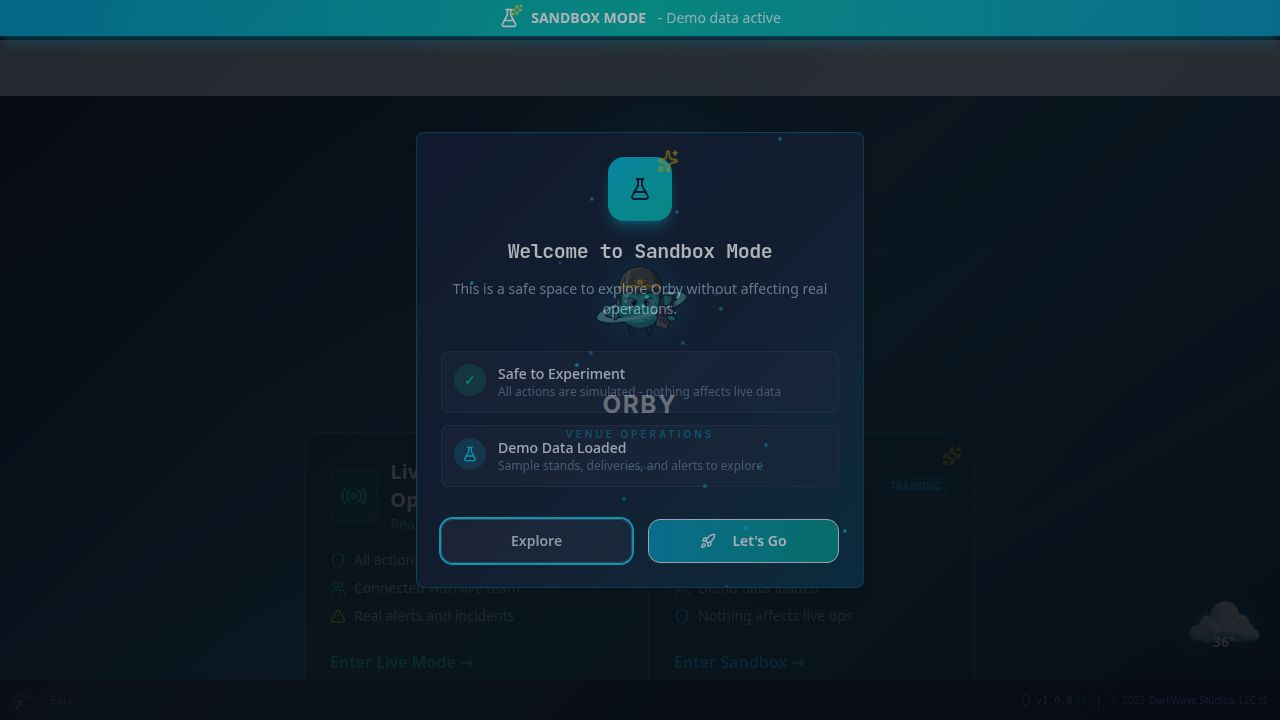
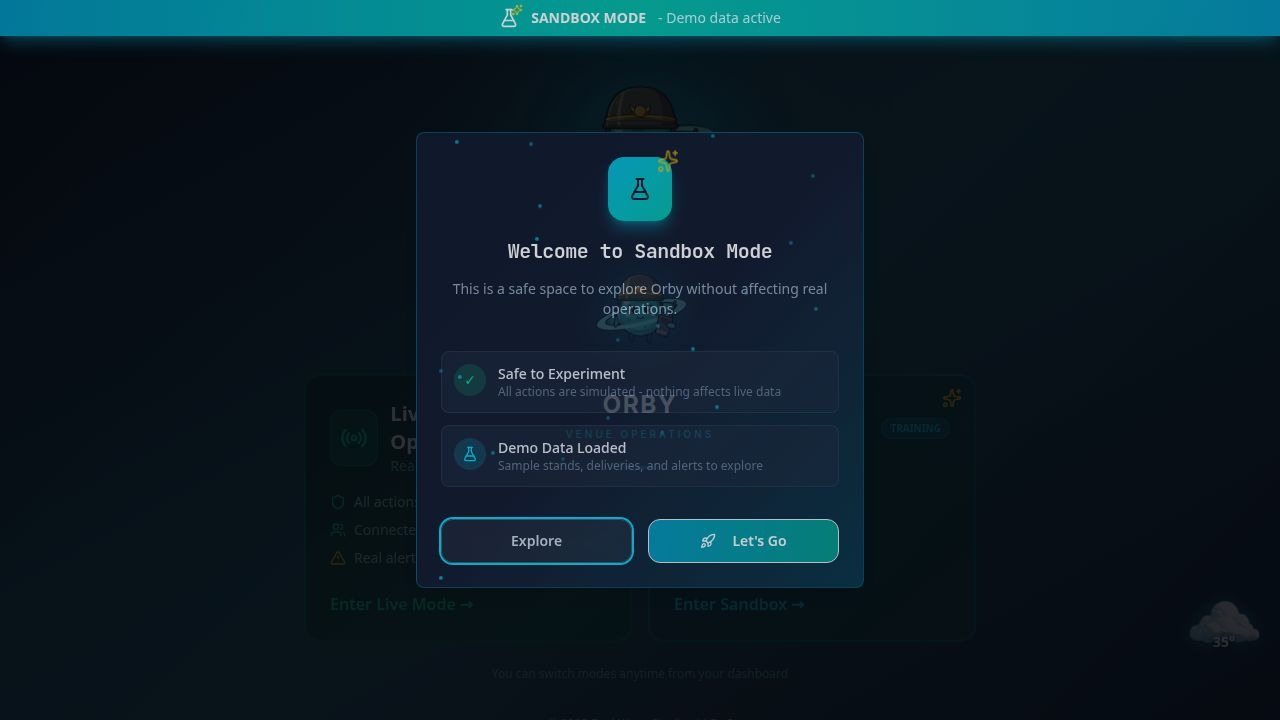
Update release notes to reflect latest blockchain stamping and minor fixes
Update replit.md with version v1.0.10, including the new Genesis Hallmark ID and Solana transaction hash for the mainnet stamp, along with release notes detailing UI and PWA status bar updates.

Replit-Commit-Author: Agent
Replit-Commit-Session-Id: 09c6e64f-5e73-4a17-a379-da0b0c838d13
Replit-Commit-Checkpoint-Type: full_checkpoint
Replit-Commit-Event-Id: 6201bd7f-f205-4296-8d24-be047654b36c
Replit-Commit-Screenshot-Url: https://storage.googleapis.com/screenshot-production-us-central1/8e2e544d-95be-406c-98e2-212d479e96fc/09c6e64f-5e73-4a17-a379-da0b0c838d13/18HwfZu

diff --git a/replit.md b/replit.md
@@ -1,9 +1,23 @@
 # Orby - Venue Operations Platform
 
-## Current Version: v1.0.9 (Beta) - STAMPED
+## Current Version: v1.0.10 (Beta) - STAMPED
 **Release Date:** December 5, 2024
-**Genesis Hallmark:** ORB-000000000014
-**Solana TX:** [5YtRFKH32Pt9D2QvFg4Njbb7uwU6oDEQTinAJXZYu2NUztn4BE4M9Q9ebkEF7Ms6EEMZPAKj3EZopNSZfCPZ5v2w](https://solscan.io/tx/5YtRFKH32Pt9D2QvFg4Njbb7uwU6oDEQTinAJXZYu2NUztn4BE4M9Q9ebkEF7Ms6EEMZPAKj3EZopNSZfCPZ5v2w)
+**Genesis Hallmark:** ORB-000000000015
+**Solana TX:** [61vgX3ZQTMDL2Bz3fr39449wKvLUNEyJymx6LQVEY41usj53DitjEygqJqWdjthgAyyhhuzd5v4EwWHXhCXVpzsQ](https://solscan.io/tx/61vgX3ZQTMDL2Bz3fr39449wKvLUNEyJymx6LQVEY41usj53DitjEygqJqWdjthgAyyhhuzd5v4EwWHXhCXVpzsQ)
+
+### v1.0.10 Release Notes
+- **Genesis Hallmark Badge & QR Modal:** Verified badge in header with interactive modal
+  - Clickable green "Verified" badge in top-right header
+  - Opens modal with QR code linking to ORB-000000000001 on Solscan
+  - Orby Commander mascot pointing at the QR code
+  - "Scan to Verify" label and "Open on Solscan" button
+- **Footer Fix:** Full copyright text now always visible and centered
+  - Shows "© 2025 DarkWave Studios LLC" on all screen sizes
+  - No more abbreviated text on mobile
+- **White Margin Fix:** Full-bleed dark background
+  - PWA status bar style updated to black
+  - Fixed inset positioning for welcome screen
+- **15 Genesis Hallmarks on Solana Mainnet:** All versions permanently anchored
 
 ### v1.0.9 Release Notes
 - **Genesis Hallmark Badge:** Welcome page now displays blockchain verification
